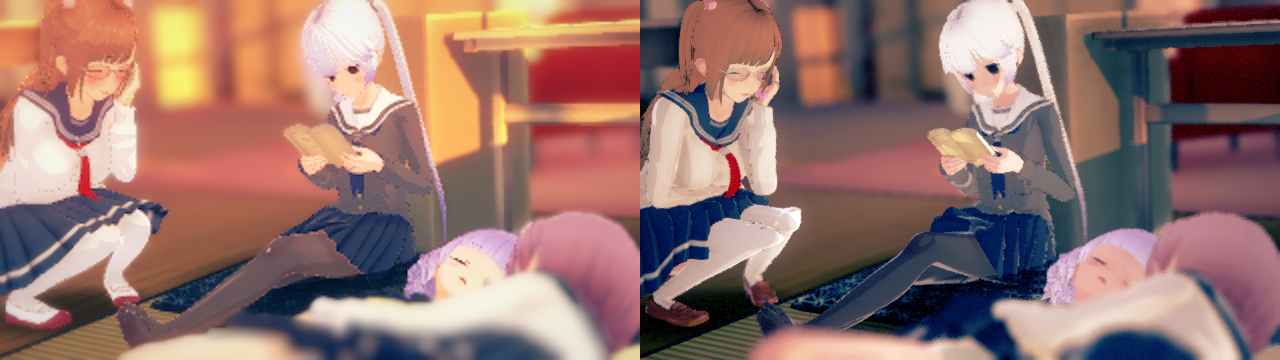
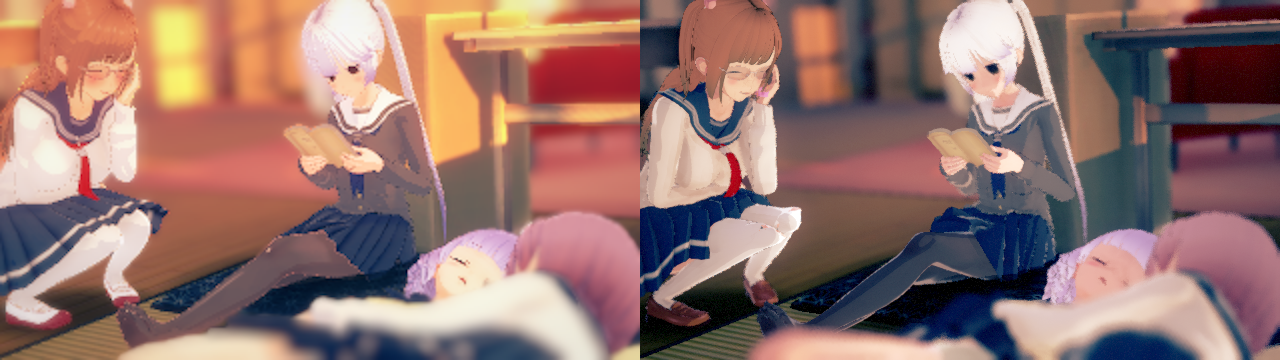
驗收：記錄提交後的透明材質完整複驗與最新實圖
Editor／遊戲 Unity 建置、六項 UE 自測、48 組 GPU 混合、
101 張圖檔與雙基礎庫原卡／OK 卡檢查全部通過。

diff --git a/Docs/OK_STUDIO_TRANSPARENCY_20261020.md b/Docs/OK_STUDIO_TRANSPARENCY_20261020.md
@@ -26,14 +26,18 @@ GPU 驗收使用正式綁定器、已知不透明與常數 alpha 控制，以及
 
 | 項目 | 結果與本機紀錄 |
 |---|---|
-| GPU 真正混合 | `Saved/OKStudio/Verify-AlphaGPUAccepted/`：48 / 48 PASS；不透明控制約 .1007，常數 alpha 控制透射率 .493659；101 張 PNG 保留在該輪 images/TransparencyTest |
-| Rust 一般回歸 | `Saved/OKStudio/handoff_e/alpha-rust-suite.log`：417 PASS、461 ignored |
+| GPU 真正混合 | `Saved/OKStudio/Verify-AlphaTrackedAcceptance/`：48 / 48 PASS；不透明控制約 .101，常數 alpha 控制透射率約 .494；101 張 PNG 保留在該輪 images/TransparencyTest |
+| Rust 一般回歸 | `Saved/OKStudio/handoff_e/alpha-tracked-rust-suite.log`：417 PASS、461 ignored |
 | 嚴格原作鏡片＋快取保存 | `alpha-rust-oracle-corrected.log`：2 PASS，`OK_NOCACHE=1`；原生白色 MainTex 與卡片 alpha 0.1254902 各自核對 |
 | 材質／陰影 Automation | `Saved/OKStudio/Verify-AlphaAutomation/console.log`：GlassesBlend、StudioMdkCoverage、ShadowSubmit Coverage／FaceChannels／Mesh，五項 Success |
 | 三個共用根 | `Saved/Crowd/RuntimeSharedMaterial-{StreetDisplay26,StudioDisplay26,StreetHG05}.json`：來源網格 shader permutations 通過；一般／HG 另完成眼睛 foreground 與淚材質 |
 | 原卡：乾淨與完整基礎庫 | `alpha-{clean,full}-kks.log`：兩邊各五張 MATCH |
 | OK 卡封閉／live 重開 | `alpha-{clean,full}-okcards.log`：兩邊各五張 MATCH，gaps=0、game_reads=0 |
-| 既有功能 | `Saved/OKStudio/Verify-AlphaFinal-{GameSelfTest,PatternTest,EyeSetTest,BloomTest}/`：四項 PASS |
-| Editor／Development 遊戲建置 | `alpha-default-capture-build.log`、`alpha-final-game-build.log`：Succeeded |
+| 完整本輪自測 | `Saved/OKStudio/Verify-AlphaTrackedAcceptance/`：GameSelfTest、PatternTest、EyeSetTest、BloomTest、TransparencyTest、EditorSelfTest，六項 PASS；自動 ACCEPTANCE.md 內嵌 13 張代表圖，JSON 記錄 101 張圖片的尺寸與 SHA-256 |
+| 已提交版本的 Unity 建置 | `alpha-tracked-editor-build.log`、`alpha-tracked-game-build.log`：Editor／Development 遊戲均 Succeeded，包含 Module.OKStudio.cpp 分組編譯 |
+| 最終 3167 擷取 | `Saved/OKStudio/Verify-Alpha3167Accepted/`：1 / 1 出圖，本文 after／comparison 使用該次結果 |
+| 圖片驗收工具 | `Tools/test_ok_studio_evidence.lua`：16 PASS；三個 Lua 檔靜態檢查無問題 |
+
+最終複驗日期：2026-10-21。實作提交 `df6fd755c`，附圖驗收工具提交 `84f9952b3`。獨立檢查再次完整解碼所有 101 張 PNG，核對 hash、IEND 結尾及 13 張 Markdown 嵌圖；六個測試程序皆退出 0。
 
 這些結果限於本輪透明材質修正，不代表全部原作場景完全還原。場景整體色調、明暗與景深仍有既有差異。
